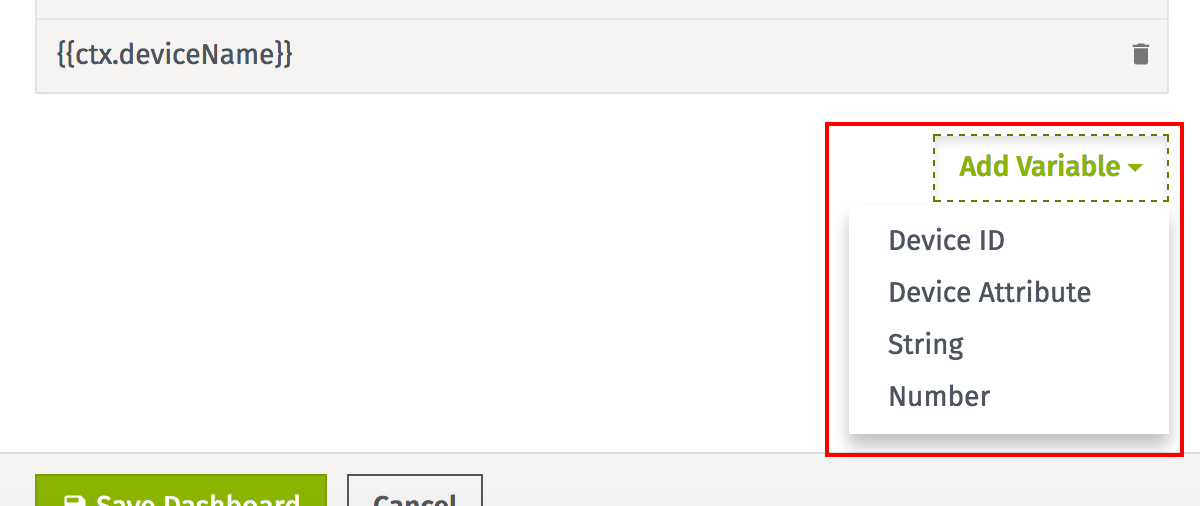
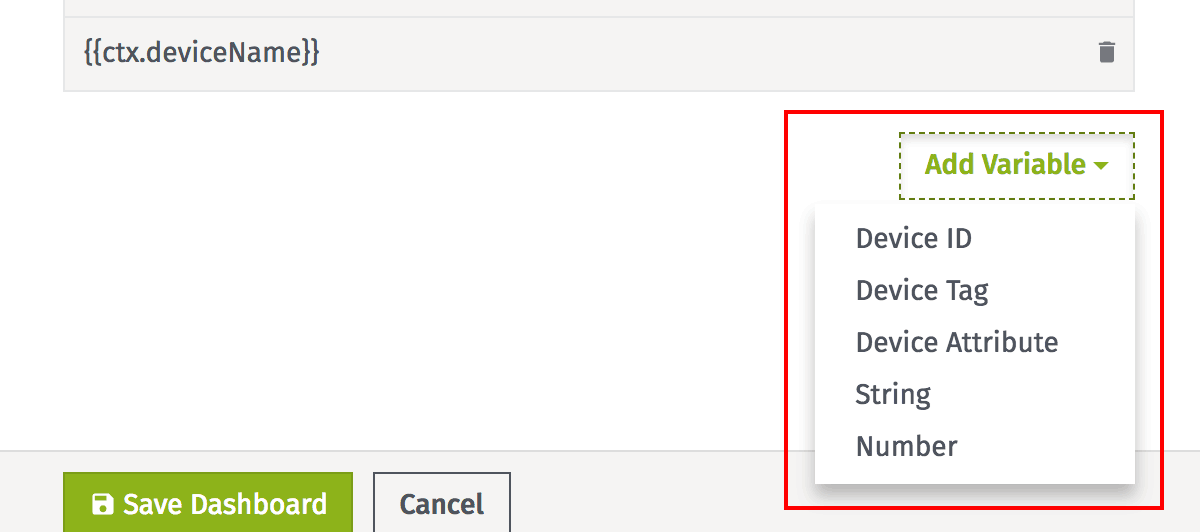
device tag context variables. images crunched

diff --git a/docs/dashboards/context-variables.md b/docs/dashboards/context-variables.md
@@ -34,6 +34,18 @@ A "Device ID" is a [device query](/devices/device-queries/) that takes a single 
 
 If a device ID is used in a query with an attribute that is not defined on the device, the block that is referencing the variable will fail to load.
 
+### Device Tags
+
+A "Device Tag" is a [device query](/devices/device-queries/) that resolves to a single [device tag](/devices/overview/#device-tags). This tag can be used to build data queries for groups of devices that have common characteristics. Just like when build queries with device tags, the key or value of a device tage context variable can resolve to a wildcard ('*') or a static value.
+
+![Device Tag Context](/images/dashboards/context-deviceTag.png "Device Tag Context")
+
+Device Tags take three additional parameters:
+
+* **Application ID** is the Losant [application](/applications/overview/) to which any selected device tag must belong.
+* **Default Value** is the device tag to use when no value is provided by the user.
+* **Validation** is optional; it is a [device query](/devices/device-queries/) that accepts multiple device tags that the variable must match. The values must be tags that exist on at least one device within your application – or they can contain wildcard values. Any device tag entered by your dashboard users must match one of these validation tags, if they are provided. For example, if two validation tags of "foo=bar" and "*=world" are provided, a user could provide a context variable value of "foo=bar", or "hello=world", or "goodbye=world".
+
 ### Attributes
 
 An "Attribute" is a single [device attribute](/devices/overview/#device-attributes). Attributes take three additional parameters:
@@ -87,6 +99,8 @@ Dashboard context settings are stored on the page's URL and changes are logged i
 
 Context variables are stored on the [query string](https://en.wikipedia.org/wiki/Query_string), and each takes the format of `ctx[VARIABLE_NAME]=NEW_VALUE`. (Values must be [encoded](https://developer.mozilla.org/en-US/docs/Web/JavaScript/Reference/Global_Objects/encodeURIComponent).) For example, to set a context variable called "myString" to the value of "hello world", you would append `?ctx[myString]=hello%20world` to your dashboard's URL.
 
+In the case of device tags, the key and the value must be set separately as a device tag context variable is treated as an [object](https://developer.mozilla.org/en-US/docs/Web/JavaScript/Guide/Working_with_Objects). To set a value of "hello=world" for the variable "deviceTag", you would append `?ctx[deviceTag][key]=hello&ctx[deviceTag][value]=world` to the URL. To set a value that uses a wildcard, do not set any value for the wildcard property. A value of "such as "hello=*" would thus be appended to the URL as `?ctx[deviceTag][key]=hello`.
+
 These URLs are valid so long as the context variable's name remains the same, and the given values pass its respective validation rules. Therefore, context settings can be bookmarked or linked to from elsewhere on the Internet.
 
 ### Links Within the Dashboard
@@ -125,8 +139,20 @@ A Device ID value can, for example, be used to ...
 
 * Display data from a specific [device](/devices/overview/) within your dashboard blocks
 * Highlight one device against an array of devices in [time series graphs](/dashboards/time-series-graph/)
-* View data from a single device at a time within a [device state tables](/dashboards/device-state-table/)
+* View data from a single device at a time within a [device state table](/dashboards/device-state-table/)
 * Color-coding [map pins](/dashboards/gps-history/#advanced-pin-style-configuration), [gauges](/dashboards/gauge/#conditional-gauge-colors) and [indicator blocks](/dashboards/indicator/#conditions) when viewing a specific device
+
+### Using Device Tags
+
+![Device Tag Context Use](/images/dashboards/context-use-deviceTag.png "Device Tag Context Use")
+
+Device Tag values can be used to ...
+
+* Display averages of state values across multiple devices in a [gauge block](/dashboards/gauge/#conditional-gauge-colors)
+* Render position data for a subset of devices in a [GPS history block](/dashboards/gps-history/) or a [position chart](/dashboards/position-chart/)
+* Send a [command](/devices/commands/) to multiple devices at once in an [input controls block](/dashboards/input-controls/)
+
+Note that since device tags render as [objects](https://developer.mozilla.org/en-US/docs/Web/JavaScript/Guide/Working_with_Objects), they must be treated differently when using them to render string output (such as in a block's title or in your dashboard's description). Given a value of "hello=world" for the tag "deviceTag", rendering the tag in that format would be done as `{{ctx.deviceTag.key}}={{ctx.deviceTag.value}}`.
 
 ### Using Attributes
 
